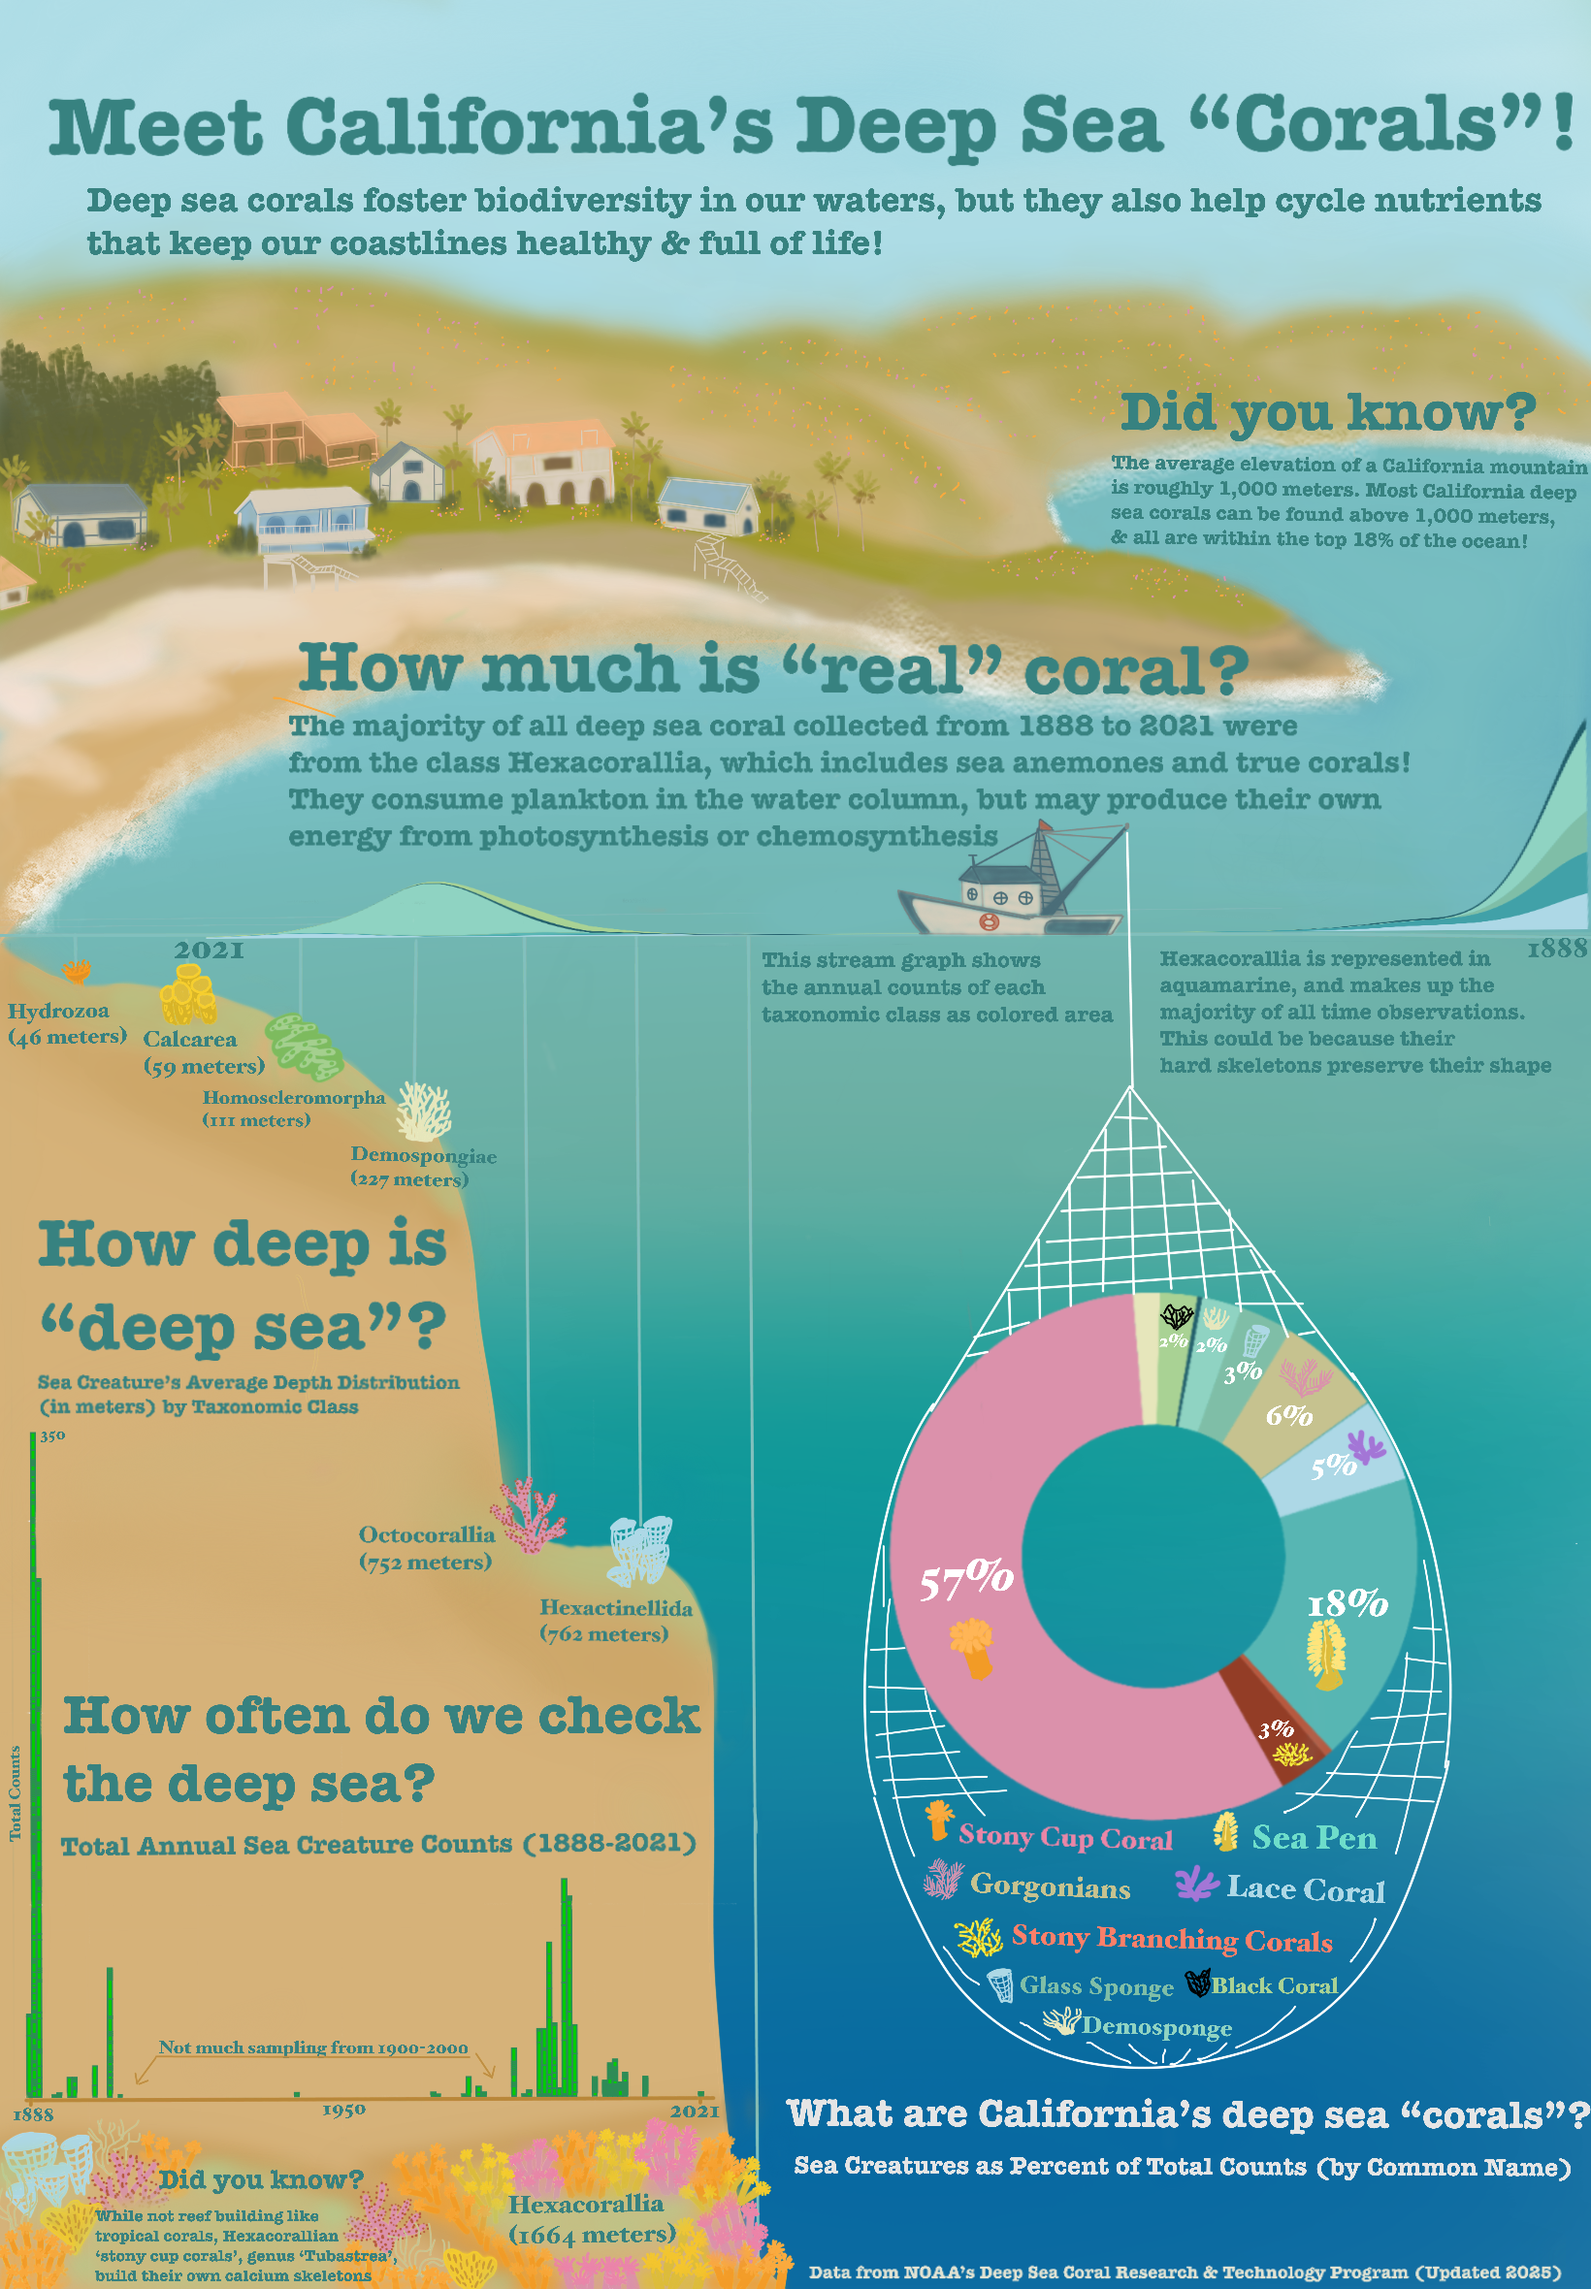
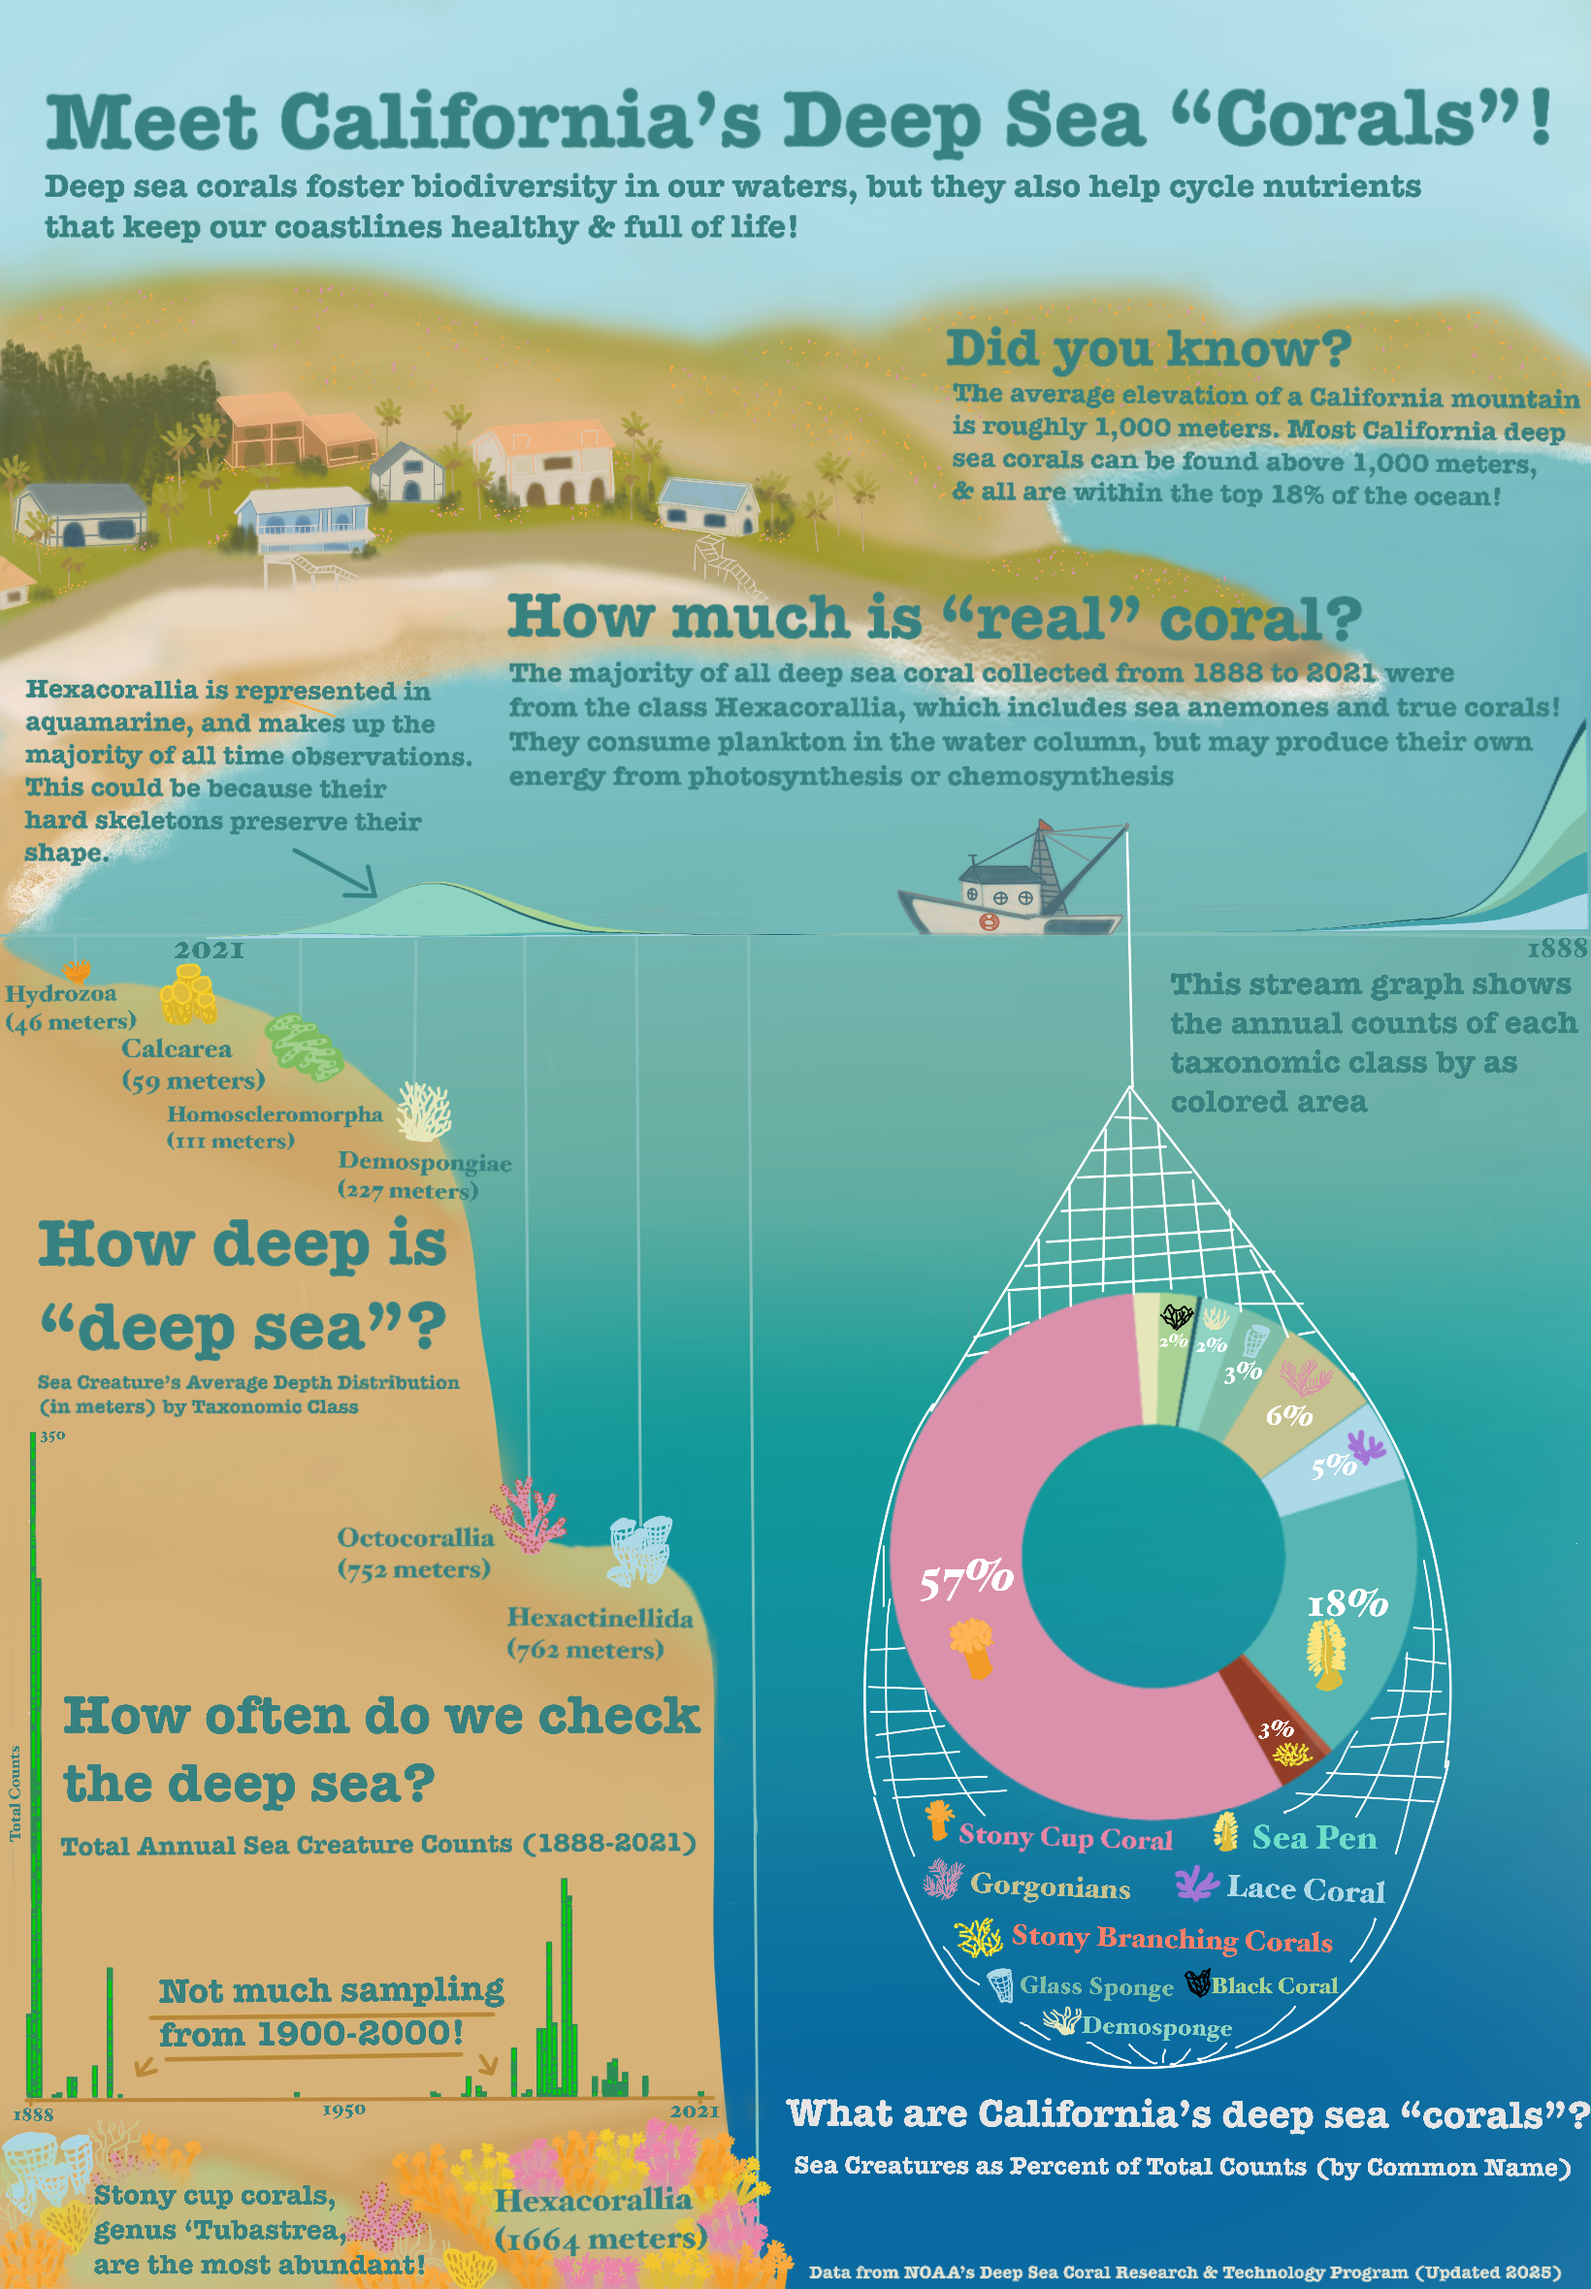
Add changes to the infographic from feedback

diff --git a/docs/posts/EDS240-Deep-Sea-Coral-Blog-Post/index.html b/docs/posts/EDS240-Deep-Sea-Coral-Blog-Post/index.html
@@ -284,7 +284,7 @@ pre > code.sourceCode > span > a:first-child::before { text-decoration: underlin
 </ol>
 <p>For my first graph, I wanted to check the average depth that each taxonomic class of organism could be found. I wanted to show people where certain types of creatures like to live and how far down the furthest ones are, as this answers the question “How deep is the”deep sea”?“.</p>
 <p>I thought this should be addressed since all of these organisms can be found above 2000 meters depth! With the average depth of the Pacific ocean being 4000 meters, and the max depth at 11,000, I wanted to convey that these reefs aren’t all that far away from human activity.</p>
-<p>I decided to use an inverted lollipop graph, to show depth increasing from left to right.</p>
+<p>I decided to use scatterlplot to show depth increasing from left to right.</p>
 <div class="cell" data-layout-align="center">
 <div class="cell-output-display">
 <div class="quarto-figure quarto-figure-center">
@@ -334,7 +334,7 @@ pre > code.sourceCode > span > a:first-child::before { text-decoration: underlin
 <h2 class="anchored" data-anchor-id="final-infographic">Final Infographic:</h2>
 <p>For my drawings and combining all the pieces, I decided to use Procreate to trace over the graphs, “paint” in a background, and assemble everything into a coastal ocean scene.</p>
 <p>I chose to display my graphs and coral images in this manner (and not simply on a dark blue or black background) in hopes of emphasizing how closely humans and reefs are to one another, and how we affect one another in turn. I ended up using a slightly bolder font with serifs that I still thought conveyed a causal and gentle look (like a children’s textbook).</p>
-<p>I ended up removing most axis and anything that made the graphs look too boxy in order to maintain a more fluid image. I also felt that most of the axis were superfluous with the drawings and labels (I had lots of categorical data), which lends itself to being more colorblind friendly as well.</p>
+<p>I ended up removing most axes and anything that made the graphs look too boxy in order to maintain a more fluid image. I also felt that most of the axis were superfluous with the drawings and labels (I had lots of categorical data), which lends itself to being more colorblind friendly as well.</p>
 <p>And without further ado…here she is!</p>
 <div class="cell" data-layout-align="center">
 <div class="cell-output-display">
@@ -420,7 +420,7 @@ pre > code.sourceCode > span > a:first-child::before { text-decoration: underlin
 <span id="cb1-67"><a href="#cb1-67" aria-hidden="true" tabindex="-1"></a></span>
 <span id="cb1-68"><a href="#cb1-68" aria-hidden="true" tabindex="-1"></a><span class="co"># Assemble graphs -----------------------------------------------------------------------------</span></span>
 <span id="cb1-69"><a href="#cb1-69" aria-hidden="true" tabindex="-1"></a></span>
-<span id="cb1-70"><a href="#cb1-70" aria-hidden="true" tabindex="-1"></a><span class="co"># Lollipop chart ---------------------------------</span></span>
+<span id="cb1-70"><a href="#cb1-70" aria-hidden="true" tabindex="-1"></a><span class="co"># Scatterplot ---------------------------------</span></span>
 <span id="cb1-71"><a href="#cb1-71" aria-hidden="true" tabindex="-1"></a><span class="co"># Line graph with icons for class by depth</span></span>
 <span id="cb1-72"><a href="#cb1-72" aria-hidden="true" tabindex="-1"></a>depth_graph <span class="ot">&lt;-</span> <span class="fu">ggplot</span>(mean_depth_class, <span class="fu">aes</span>(<span class="at">x=</span> <span class="fu">reorder</span>(Class, Mean_Depth), <span class="at">y=</span> Mean_Depth)) <span class="sc">+</span></span>
 <span id="cb1-73"><a href="#cb1-73" aria-hidden="true" tabindex="-1"></a>    <span class="fu">geom_point</span>(<span class="fu">aes</span>(<span class="at">colour =</span> <span class="sc">-</span>Mean_Depth,</span>

diff --git a/docs/posts.html b/docs/posts.html
@@ -199,7 +199,7 @@ window.Quarto = {
 
 <div class="quarto-listing quarto-listing-container-grid" id="listing-listing">
 <div class="list grid quarto-listing-cols-3">
-<div class="g-col-1" data-index="0" data-categories="\[MEDS]" data-listing-date-sort="1742281200000" data-listing-file-modified-sort="1742369619042" data-listing-date-modified-sort="NaN" data-listing-reading-time-sort="14" data-listing-word-count-sort="2692">
+<div class="g-col-1" data-index="0" data-categories="\[MEDS]" data-listing-date-sort="1742281200000" data-listing-file-modified-sort="1742765419915" data-listing-date-modified-sort="NaN" data-listing-reading-time-sort="14" data-listing-word-count-sort="2688">
 <a href="./posts/EDS240-Deep-Sea-Coral-Blog-Post/index.html" class="quarto-grid-link">
 <div class="quarto-grid-item card h-100 card-left">
 <p class="card-img-top">
